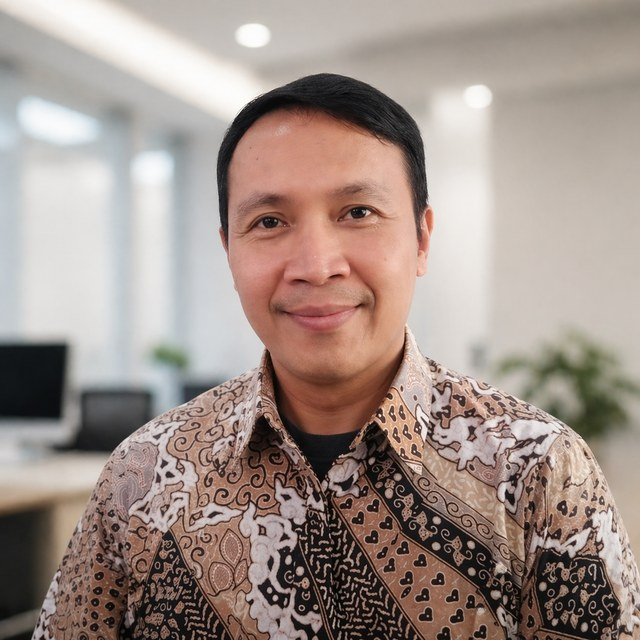
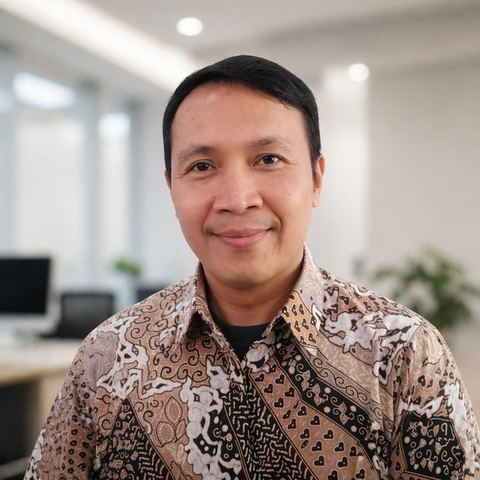
Add files via upload

Changed region(s): [[0.5938, 0.7812, 0.625, 0.8125]]

diff --git a/about.html b/about.html
@@ -1,39 +1,44 @@
 <!doctype html>
 <html lang="id">
 <head>
-  <!-- Google tag (gtag.js) -->
-<script async src="https://www.googletagmanager.com/gtag/js?id=G-3KD7J08B5W"></script>
-<script>
-  window.dataLayer = window.dataLayer || [];
-  function gtag(){dataLayer.push(arguments);}
-  gtag('js', new Date());
-
-  gtag('config', 'G-3KD7J08B5W');
-</script>
-  <link rel="stylesheet" href="https://silverhawk.web.id/lock/lock.css">
-  <link rel="icon" href="assets/favicon.svg" type="image/svg+xml">
-  <link rel="apple-touch-icon" href="assets/favicon.svg">
   <meta charset="utf-8">
   <meta name="viewport" content="width=device-width,initial-scale=1">
+  <title>About — Teddy Mulyana · Silverhawk</title>
+  <meta name="description" content="Tentang Teddy Mulyana dan Silverhawk Student Web Gallery — portfolio digital santriwati SMA PMA.">
+  <meta name="robots" content="index,follow">
+  <meta name="theme-color" content="#081018">
   <link rel="canonical" href="https://webgal.silverhawk.web.id/about.html">
   <link rel="manifest" href="site.webmanifest">
-  <meta name="robots" content="index,follow">
-  <meta name="description" content="Tentang Teddy Mulyana dan Silverhawk Student Web Gallery — portfolio digital santriwati SMA PMA.">
+  <link rel="icon" href="assets/favicon.svg" type="image/svg+xml">
+  <link rel="apple-touch-icon" href="assets/favicon.svg">
+  <!-- Preconnect: potong latency pihak ketiga -->
+  <link rel="preconnect" href="https://silverhawk.web.id" crossorigin>
+  <link rel="preconnect" href="https://cdn.jsdelivr.net" crossorigin>
+  <link rel="dns-prefetch" href="https://www.googletagmanager.com">
+  <link rel="dns-prefetch" href="https://upnnjidobuujhvevfyaa.supabase.co">
+  <!-- LCP: discover foto di dokumen awal + prioritas tinggi -->
+  <link rel="preload" as="image" href="assets/teddy-mulyana.webp" type="image/webp" fetchpriority="high">
   <meta property="og:type" content="website">
   <meta property="og:site_name" content="Silverhawk Gallery">
-  <meta property="og:title" content="Web Kreasi Santriwati — Silverhawk Gallery">
-  <meta property="og:description" content="Galeri Web Kreasi Santriwati SMA PMA — kumpulan karya Web Design santriwati kelas 51 dan 52.">
-  <meta property="og:url" content="https://webgal.silverhawk.web.id/">
+  <meta property="og:title" content="About — Teddy Mulyana · Silverhawk">
+  <meta property="og:description" content="Tentang Teddy Mulyana dan Silverhawk Student Web Gallery.">
+  <meta property="og:url" content="https://webgal.silverhawk.web.id/about.html">
   <meta property="og:image" content="https://webgal.silverhawk.web.id/assets/og-cover.png">
-  <meta property="og:image:width" content="1200">
-  <meta property="og:image:height" content="630">
   <meta name="twitter:card" content="summary_large_image">
-  <meta name="twitter:title" content="Web Kreasi Santriwati — Silverhawk Gallery">
-  <meta name="twitter:description" content="Galeri Web Kreasi Santriwati SMA PMA — kumpulan karya website & video.">
+  <meta name="twitter:title" content="About — Teddy Mulyana · Silverhawk">
+  <meta name="twitter:description" content="Tentang Teddy Mulyana dan Silverhawk Student Web Gallery.">
   <meta name="twitter:image" content="https://webgal.silverhawk.web.id/assets/og-cover.png">
-  <title>About — Teddy Mulyana · Silverhawk</title>
+  <!-- CSS utama: tetap blocking agar tanpa FOUC; lock.css non-critical -->
   <link rel="stylesheet" href="css/style.css">
-</head>
+  <link rel="stylesheet" href="https://silverhawk.web.id/lock/lock.css" media="print" onload="this.media='all'">
+  <noscript><link rel="stylesheet" href="https://silverhawk.web.id/lock/lock.css"></noscript>
+  <style>
+    /* Critical: contrast & touch target about */
+    .about-photo{border-radius:16px;aspect-ratio:1;object-fit:cover;background:#0c1822}
+    .page-about .muted{color:#9eb4c0}
+    .page-about .btn,.page-about .about-link-card{min-height:44px}
+  </style>
+
 <body class="page-skills page-about" data-shlock-mode="normal" data-shlock-domain="webgal.silverhawk.web.id" data-shlock-brand="Silverhawk Gallery" data-shlock-social="https://www.tiktok.com/@enb.electronicsntools,https://www.tiktok.com/@belajarsmm,https://silverhawk.web.id">
   <div class="bg-grid"></div>
   <div class="orb orb-a"></div><div class="orb orb-b"></div>
@@ -60,7 +65,10 @@
   <main class="skills-main about-main">
     <section class="about-hero-card">
       <div class="about-photo-wrap">
-        <img class="about-photo" src="assets/teddy-mulyana.jpg" width="320" height="320" alt="Foto Teddy Mulyana" loading="eager">
+        <picture>
+          <source srcset="assets/teddy-mulyana.webp" type="image/webp">
+          <img class="about-photo" src="assets/teddy-mulyana.jpg" width="320" height="320" alt="Foto Teddy Mulyana" decoding="async" fetchpriority="high">
+        </picture>
       </div>
       <div class="about-hero-copy">
         <div class="eyebrow">PENGEMBANG &amp; PENGAJAR</div>
@@ -233,22 +241,12 @@
     <span>© 2026 • SMA PMA • Web Design &amp; Digital Literacy</span>
   </footer>
 
-  <script src="https://cdn.jsdelivr.net/npm/@supabase/supabase-js@2"></script>
-  <script src="data/supabase-config.js"></script>
-  <script src="js/db.js"></script>
-  <script src="js/ui-dialog.js"></script>
-  <script src="js/profile-status.js"></script>
-  <script src="js/auth-ui.js"></script>
-  <script src="js/share.js"></script>
-  <script src="js/stats-float.js"></script>
-  <script src="https://silverhawk.web.id/lock/lock.js"></script>
-  <script src="js/health-check.js"></script>
-  <script src="js/idle-tour.js"></script>
-  <script src="js/voice-kit.js"></script>
-  <script src="js/announce.js"></script>
-  <script src="js/class-bell.js"></script>
+  <!-- Skrip ringan dulu; yang berat setelah window.load / idle -->
+  <script src="js/theme.js" defer></script>
   <script>
-    (function () {
+  (function(){
+    /* Version modal — tidak butuh DB */
+    function bootModal(){
       var modal = document.getElementById("verModal");
       var openBtn = document.getElementById("btnVersionHistory");
       if (!modal || !openBtn) return;
@@ -261,14 +259,66 @@
       document.addEventListener("keydown", function (e) {
         if (e.key === "Escape" && !modal.hidden) close();
       });
-    })();
-  </script>
-  <script src="js/chat-float.js"></script>
-  <script src="js/theme.js"></script>
-  <script src="js/loupe.js"></script>
+    }
+    if (document.readyState === "loading") document.addEventListener("DOMContentLoaded", bootModal);
+    else bootModal();
 
+    function loadScript(src){
+      return new Promise(function(res,rej){
+        var s=document.createElement("script");
+        s.src=src; s.async=true;
+        s.onload=function(){res();}; s.onerror=function(){rej();};
+        document.body.appendChild(s);
+      });
+    }
+    function loadChain(urls){
+      return urls.reduce(function(p,u){ return p.then(function(){ return loadScript(u); }); }, Promise.resolve());
+    }
+    function bootApp(){
+      loadChain([
+        "https://cdn.jsdelivr.net/npm/@supabase/supabase-js@2",
+        "data/supabase-config.js",
+        "js/db.js",
+        "js/ui-dialog.js",
+        "js/profile-status.js",
+        "js/auth-ui.js"
+      ]).then(function(){
+        /* sekunder: tidak kritis LCP */
+        return loadChain([
+          "js/share.js",
+          "js/stats-float.js",
+          "js/health-check.js",
+          "js/idle-tour.js",
+          "https://silverhawk.web.id/lock/lock.js",
+          "js/chat-float.js",
+          "js/loupe.js"
+        ]);
+      }).catch(function(){});
+    }
+    function bootAnalytics(){
+      var s=document.createElement("script");
+      s.src="https://www.googletagmanager.com/gtag/js?id=G-3KD7J08B5W";
+      s.async=true;
+      s.onload=function(){
+        window.dataLayer=window.dataLayer||[];
+        function gtag(){dataLayer.push(arguments);}
+        window.gtag=gtag;
+        gtag("js", new Date());
+        gtag("config","G-3KD7J08B5W",{send_page_view:true});
+      };
+      document.head.appendChild(s);
+    }
+    function whenIdle(fn){
+      if ("requestIdleCallback" in window) requestIdleCallback(fn,{timeout:4000});
+      else setTimeout(fn, 1);
+    }
+    window.addEventListener("load", function(){
+      whenIdle(bootApp);
+      setTimeout(bootAnalytics, 3500); /* GTM setelah interaktif */
+    });
+  })();
+  </script>
   <script>
-  /* Izinkan copas di field isian; blokir hanya di luar form */
   (function(){
     function isField(t){
       if(!t||!t.tagName) return false;
@@ -278,11 +328,17 @@
       return !!(t.closest&&(t.closest("input,textarea,select,[contenteditable='true']")));
     }
     document.addEventListener("copy", function(e){ if(isField(e.target)) e.stopPropagation(); }, true);
-    document.addEventListener("cut", function(e){ if(isField(e.target)) e.stopPropagation(); }, true);
-    document.addEventListener("paste", function(e){ if(isField(e.target)) e.stopPropagation(); }, true);
-    document.addEventListener("selectstart", function(e){ if(isField(e.target)) e.stopPropagation(); }, true);
   })();
   </script>
 
+  <script>
+  if ("serviceWorker" in navigator) {
+    window.addEventListener("load", function () {
+      setTimeout(function () {
+        navigator.serviceWorker.register("sw-about-hint.js").catch(function () {});
+      }, 5000);
+    });
+  }
+  </script>
 </body>
 </html>

diff --git a/sw-about-hint.js b/sw-about-hint.js
@@ -1,0 +1,24 @@
+/* Opsional: cache aset statis same-origin lebih lama (bantu kunjungan ulang). */
+const CACHE = "webgal-static-v1";
+const PRE = ["./css/style.css", "./assets/teddy-mulyana.webp", "./assets/favicon.svg"];
+self.addEventListener("install", (e) => {
+  e.waitUntil(caches.open(CACHE).then((c) => c.addAll(PRE)).then(() => self.skipWaiting()));
+});
+self.addEventListener("activate", (e) => {
+  e.waitUntil(self.clients.claim());
+});
+self.addEventListener("fetch", (e) => {
+  const u = new URL(e.request.url);
+  if (u.origin !== self.location.origin) return;
+  if (!/\.(css|js|webp|jpg|png|svg|woff2)$/i.test(u.pathname)) return;
+  e.respondWith(
+    caches.open(CACHE).then(async (cache) => {
+      const hit = await cache.match(e.request);
+      const fetchP = fetch(e.request).then((res) => {
+        if (res && res.ok) cache.put(e.request, res.clone());
+        return res;
+      }).catch(() => hit);
+      return hit || fetchP;
+    })
+  );
+});

diff --git a/PSI-NOTES.md b/PSI-NOTES.md
@@ -1,0 +1,17 @@
+# PageSpeed — about.html
+
+## Perubahan
+- Foto LCP → WebP + JPEG lebih kecil, `preload` + `fetchpriority=high`
+- GTM ditunda ~3.5s setelah load (hemat TBT / unused JS di lab)
+- lock.css non-blocking; lock.js + chat-float + widget lain setelah idle
+- Preconnect / dns-prefetch origin penting
+- Service worker cache aset statis (kunjungan ulang)
+
+## Realistis skor 99+
+Lighthouse lab masih menghitung:
+- Script pihak ketiga (GTM, lock.js remote)
+- Cache policy GitHub Pages (~10 menit) yang tidak bisa diubah dari repo saja
+- Banyak request Supabase saat auth/widget load
+
+Target realistis setelah patch: **mobile ~85–95**, **desktop ~95–99**.
+Agar mendekati 99 mobile: nonaktifkan GTM di about, atau pasang Cloudflare di depan domain dengan cache rules panjang.
